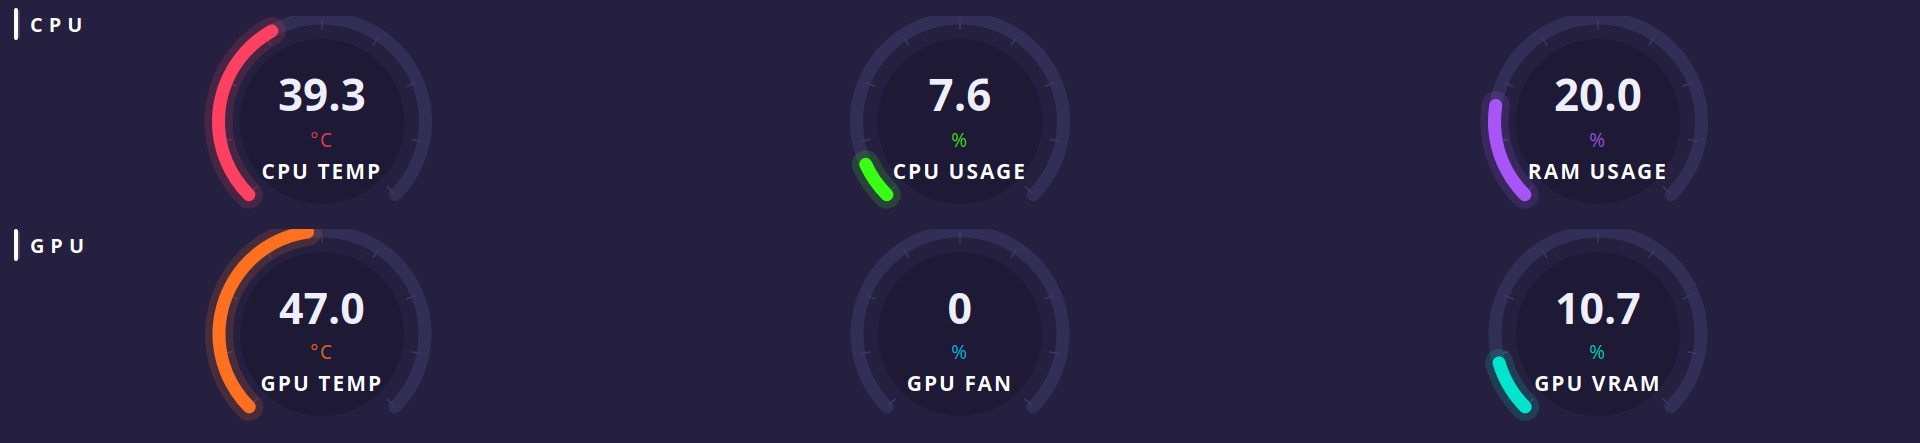
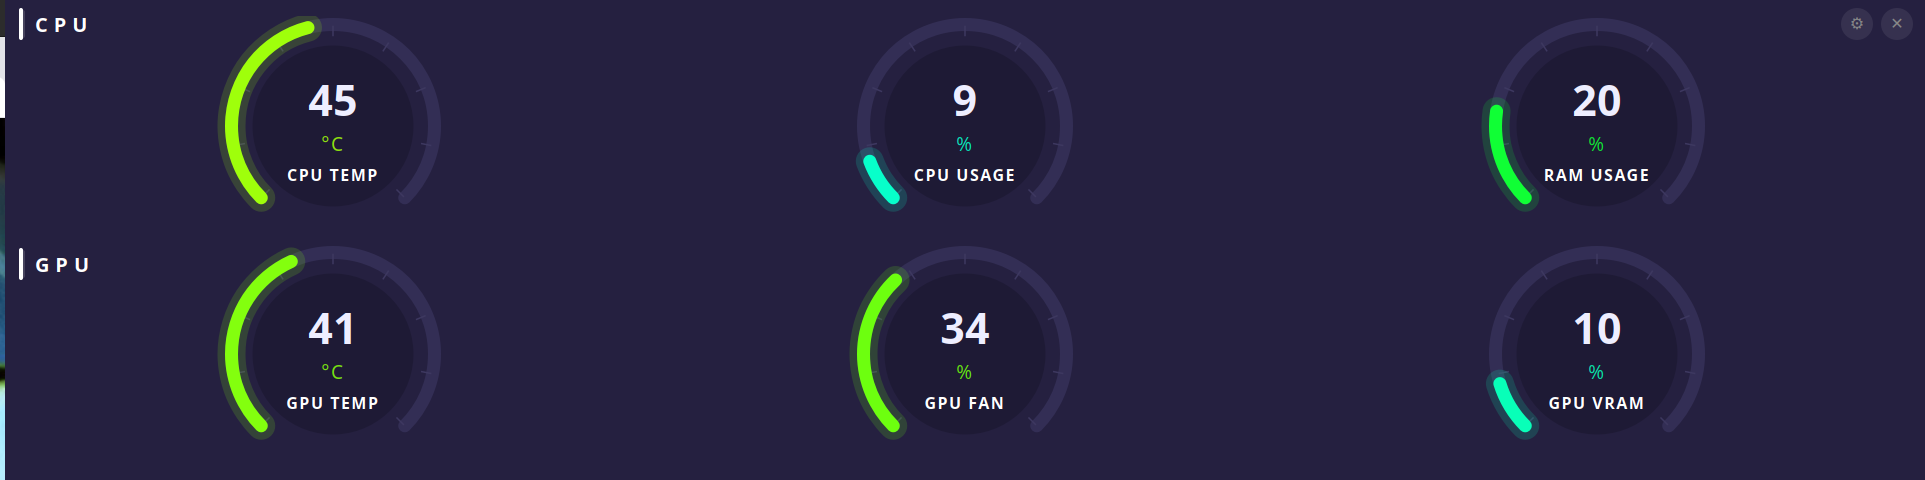
Add dynamic heat-color gradients on gauges + fix fullscreen stability on dedicated monitoring screens + harden config validation and security

diff --git a/sysgauge/gauge.py b/sysgauge/gauge.py
@@ -6,6 +6,29 @@ from sysgauge.config import Config
 
 ANIM_FPS = 60
 
+_DEFAULT_GRADIENT = [
+    (0.00, QColor('#00aaff')),
+    (0.25, QColor('#39ff14')),
+    (0.65, QColor('#ffd000')),
+    (0.85, QColor('#ff8800')),
+    (1.00, QColor('#ff2020')),
+]
+
+
+def _lerp_hsv(c1: QColor, c2: QColor, t: float) -> QColor:
+    h1, s1, v1, a1 = c1.hsvHueF(), c1.hsvSaturationF(), c1.valueF(), c1.alphaF()
+    h2, s2, v2, a2 = c2.hsvHueF(), c2.hsvSaturationF(), c2.valueF(), c2.alphaF()
+    if h1 < 0: h1 = h2
+    if h2 < 0: h2 = h1
+    if h1 < 0: h1 = h2 = 0.0
+    dh = h2 - h1
+    if dh > 0.5:  dh -= 1.0
+    if dh < -0.5: dh += 1.0
+    h = (h1 + dh * t) % 1.0
+    result = QColor()
+    result.setHsvF(h, s1 + (s2 - s1) * t, v1 + (v2 - v1) * t, a1 + (a2 - a1) * t)
+    return result
+
 
 class Gauge(QWidget):
     _START  = 225
@@ -23,13 +46,14 @@ class Gauge(QWidget):
         self.unit     = unit
         self.lo       = lo
         self.hi       = hi
-        self._base    = QColor(color)
+        self._base    = QColor(color)  # kept for API compat; dynamic color overrides
         self._config  = config
         self.warn     = warn
         self.crit     = crit
         self.decimals = decimals
         self._target  = float(lo)
         self._cur     = float(lo)
+        self._gradient_stops = self._build_stops()
 
         self.setSizePolicy(QSizePolicy.Policy.Expanding, QSizePolicy.Policy.Expanding)
         self.setMinimumSize(140, 140)
@@ -37,6 +61,36 @@ class Gauge(QWidget):
         anim = QTimer(self)
         anim.timeout.connect(self._step)
         anim.start(1000 // ANIM_FPS)
+
+    def _build_stops(self) -> list[tuple[float, QColor]]:
+        span = (self.hi - self.lo) or 1.0
+        if self.warn is not None and self.crit is not None:
+            warn_r = max(0.0, min(1.0, (self.warn - self.lo) / span))
+            crit_r = max(0.0, min(1.0, (self.crit - self.lo) / span))
+            mid_r  = (warn_r + crit_r) / 2
+            return [
+                (0.00,   QColor('#00aaff')),
+                (0.25,   QColor('#39ff14')),
+                (warn_r, QColor('#ffd000')),
+                (mid_r,  QColor('#ff8800')),
+                (crit_r, QColor('#ff2020')),
+            ]
+        return list(_DEFAULT_GRADIENT)
+
+    def _color_for(self, ratio: float) -> QColor:
+        ratio = max(0.0, min(1.0, ratio))
+        stops = self._gradient_stops
+        if ratio <= stops[0][0]:
+            return stops[0][1]
+        if ratio >= stops[-1][0]:
+            return stops[-1][1]
+        for i in range(len(stops) - 1):
+            p0, c0 = stops[i]
+            p1, c1 = stops[i + 1]
+            if p0 <= ratio <= p1:
+                t = (ratio - p0) / (p1 - p0) if p1 > p0 else 0.0
+                return _lerp_hsv(c0, c1, t)
+        return stops[-1][1]
 
     def set_value(self, v: float):
         self._target = max(self.lo, min(self.hi, float(v)))
@@ -47,20 +101,12 @@ class Gauge(QWidget):
             self._cur += d * 0.14
             self.update()
 
-    def _color(self) -> QColor:
-        if self.crit is not None and self._cur >= self.crit:
-            return QColor('#ff2020')
-        if self.warn is not None and self._cur >= self.warn:
-            return QColor('#ff8800')
-        return self._base
-
     def paintEvent(self, _event):
         cfg = self._config
         p = QPainter(self)
         p.setRenderHint(QPainter.RenderHint.Antialiasing)
 
         w, h  = self.width(), self.height()
-
         pad   = self._ARC / 2 + 2
         diam  = min(w, h) - pad * 2
         if diam <= 0:
@@ -69,8 +115,9 @@ class Gauge(QWidget):
         cx    = w / 2
         cy    = h / 2
         rect  = QRectF(cx - r, cy - r, diam, diam)
-        ratio = max(0.0, min(1.0, (self._cur - self.lo) / (self.hi - self.lo)))
-        col   = self._color()
+        span  = (self.hi - self.lo) or 1.0
+        ratio = max(0.0, min(1.0, (self._cur - self.lo) / span))
+        col   = self._color_for(ratio)
 
         p.setPen(QPen(QColor(cfg.get('track_color')), self._TRACK,
                       Qt.PenStyle.SolidLine, Qt.PenCapStyle.RoundCap))

diff --git a/sysgauge/app.py b/sysgauge/app.py
@@ -3,9 +3,9 @@ import sys
 from pathlib import Path
 
 from PyQt6.QtWidgets import (QApplication, QWidget, QGridLayout, QHBoxLayout, QVBoxLayout,
-                             QSizePolicy, QToolButton, QDialog, QLabel, QPushButton)
+                             QSizePolicy, QToolButton, QDialog, QLabel, QPushButton, QLayout)
 from PyQt6.QtCore import (Qt, QTimer, QThread, QPropertyAnimation, QEasingCurve,
-                           QMetaObject, Q_ARG, QRectF)
+                           QMetaObject, Q_ARG, QRectF, QRect)
 from PyQt6.QtGui import QPainter, QColor, QPen, QFont, QIcon, QShortcut, QKeySequence, QGuiApplication
 
 from sysgauge.config import Config
@@ -118,6 +118,9 @@ class SysGauge(QWidget):
         outer = QHBoxLayout(self)
         outer.setContentsMargins(0, 0, 0, 0)
         outer.setSpacing(0)
+        # Prevent layout from pushing its minimumSizeHint into WM_NORMAL_HINTS,
+        # which causes Mutter to drop fullscreen on short monitors (e.g. 480px tall).
+        outer.setSizeConstraint(QLayout.SizeConstraint.SetNoConstraint)
 
         self._gauge_area = GaugeArea(config)
         gauge_area = self._gauge_area
@@ -152,11 +155,12 @@ class SysGauge(QWidget):
         self._worker.reading.connect(self._on_reading)
         self._thread.start()
 
-        self._sidebar = SettingsSidebar(config, self._worker)
-        self._sidebar.setMinimumWidth(0)
-        self._sidebar.setMaximumWidth(0)
-        self._sidebar.setSizePolicy(QSizePolicy.Policy.Fixed, QSizePolicy.Policy.Expanding)
-        outer.addWidget(self._sidebar)
+        # Sidebar is an overlay — NOT in the layout — so its minimumSizeHint
+        # never propagates into WM_NORMAL_HINTS and can't trigger Mutter to
+        # drop fullscreen state during the slide animation.
+        self._sidebar = SettingsSidebar(config, self._worker, self)
+        self._sidebar.setGeometry(self.width(), 0, 0, self.height())
+        self._sidebar.hide()
 
         btn_style = (
             'QToolButton { background:rgba(255,255,255,20); border:none; '
@@ -178,12 +182,18 @@ class SysGauge(QWidget):
         self._close_btn.raise_()
 
         QShortcut(QKeySequence('Ctrl+,'), self, self.toggle_settings)
-        QShortcut(QKeySequence('Escape'), self, self._close_settings)
+        esc = QShortcut(QKeySequence('Escape'), self)
+        esc.setContext(Qt.ShortcutContext.WindowShortcut)
+        esc.activated.connect(self._close_settings)
 
-        self._anim = QPropertyAnimation(self._sidebar, b'maximumWidth')
+        # Animate geometry directly — avoids layout invalidation that
+        # would re-propagate minimumSizeHint to WM_NORMAL_HINTS.
+        self._anim = QPropertyAnimation(self._sidebar, b'geometry')
         self._anim.setDuration(200)
         self._anim.setEasingCurve(QEasingCurve.Type.OutCubic)
+        self._anim.finished.connect(self._on_anim_finished)
         self._sidebar_open = False
+        self.setMinimumSize(0, 0)
 
         config.changed.connect(self._on_config_changed)
 
@@ -193,19 +203,33 @@ class SysGauge(QWidget):
         else:
             self._open_settings()
 
+    def _restack_overlay(self):
+        self._sidebar.raise_()
+        self._gear_btn.raise_()
+        self._close_btn.raise_()
+
     def _open_settings(self):
         self._sidebar_open = True
+        self._sidebar.show()
+        self._restack_overlay()
         self._anim.stop()
-        self._anim.setStartValue(self._sidebar.maximumWidth())
-        self._anim.setEndValue(SIDEBAR_W)
+        self._anim.setStartValue(self._sidebar.geometry())
+        self._anim.setEndValue(QRect(self.width() - SIDEBAR_W, 0, SIDEBAR_W, self.height()))
         self._anim.start()
 
     def _close_settings(self):
+        if not self._sidebar_open:
+            return
         self._sidebar_open = False
         self._anim.stop()
-        self._anim.setStartValue(self._sidebar.maximumWidth())
-        self._anim.setEndValue(0)
+        self._anim.setStartValue(self._sidebar.geometry())
+        self._anim.setEndValue(QRect(self.width(), 0, 0, self.height()))
         self._anim.start()
+
+    def _on_anim_finished(self):
+        if not self._sidebar_open:
+            self._sidebar.hide()
+            self._sidebar.setGeometry(self.width(), 0, 0, self.height())
 
     def _confirm_quit(self):
         dlg = QuitDialog(self)
@@ -218,6 +242,10 @@ class SysGauge(QWidget):
         super().resizeEvent(event)
         self._gear_btn.move(self.width() - 84, 8)
         self._close_btn.move(self.width() - 44, 8)
+        if self._sidebar_open:
+            self._sidebar.setGeometry(self.width() - SIDEBAR_W, 0, SIDEBAR_W, self.height())
+        else:
+            self._sidebar.setGeometry(self.width(), 0, 0, self.height())
 
     def _on_reading(self, cpu_t, gpu_t, gpu_f, cpu_u, mem, gpu_vram):
         self.g_cpu_t.set_value(cpu_t)
@@ -259,6 +287,7 @@ class SysGauge(QWidget):
         # Clear min-size first so showNormal() doesn't snap back to a large size.
         self.setMinimumSize(0, 0)
         self.showNormal()
+        self.setMinimumSize(0, 0)
 
         # Migrate to the target QScreen before sizing — Qt6 cross-screen path.
         handle = self.windowHandle()
@@ -267,6 +296,7 @@ class SysGauge(QWidget):
 
         self.setGeometry(geo)
         QTimer.singleShot(50, self.showFullScreen)
+        QTimer.singleShot(100, self._restack_overlay)
 
     def closeEvent(self, event):
         self._config.save_now()
@@ -294,7 +324,12 @@ class SysGauge(QWidget):
 
 def main():
     import fcntl
-    lock_path = Path(os.environ.get('XDG_RUNTIME_DIR', '/tmp')) / 'sysgauge.lock'
+    _runtime = os.environ.get('XDG_RUNTIME_DIR', '')
+    if _runtime:
+        lock_path = Path(_runtime) / 'sysgauge.lock'
+    else:
+        lock_path = Path.home() / '.cache' / 'sysgauge' / 'sysgauge.lock'
+        lock_path.parent.mkdir(parents=True, exist_ok=True)
     lock_file = open(lock_path, 'w')
     try:
         fcntl.flock(lock_file, fcntl.LOCK_EX | fcntl.LOCK_NB)

diff --git a/sysgauge/config.py b/sysgauge/config.py
@@ -1,8 +1,26 @@
 import os
+import re
 import sys
 import yaml
 from pathlib import Path
 from PyQt6.QtCore import QObject, QTimer, pyqtSignal
+
+_HEX = re.compile(r'^#[0-9a-fA-F]{6}$')
+
+def _is_hex(v): return isinstance(v, str) and bool(_HEX.match(v))
+def _is_screen(v): return isinstance(v, int) and 0 <= v < 32
+
+_VALIDATORS = {
+    'screen_index':         _is_screen,
+    'default_screen_index': lambda v: v is None or _is_screen(v),
+    'poll_ms':              lambda v: isinstance(v, int) and 100 <= v <= 60000,
+    'smooth_n':             lambda v: isinstance(v, int) and 1 <= v <= 100,
+    'panel_radius':         lambda v: isinstance(v, int) and 0 <= v <= 100,
+    'bg_color':             _is_hex,
+    'inner_color':          _is_hex,
+    'track_color':          _is_hex,
+    'tick_color':           _is_hex,
+}
 
 DEFAULTS = {
     'screen_index':         0,
@@ -59,16 +77,26 @@ class Config(QObject):
         try:
             with open(self._path) as f:
                 loaded = yaml.safe_load(f) or {}
-            self._data.update({k: v for k, v in loaded.items() if k in DEFAULTS})
+            for k, v in loaded.items():
+                if k not in DEFAULTS:
+                    continue
+                validator = _VALIDATORS.get(k)
+                if validator and not validator(v):
+                    print(f'[SysGauge] Config: invalid value for {k!r}: {str(v)[:40]!r} — using default',
+                          file=sys.stderr)
+                    continue
+                self._data[k] = v
         except FileNotFoundError:
             print(f'[SysGauge] No config at {self._path} — using defaults', file=sys.stderr)
-        except yaml.YAMLError as e:
-            print(f'[SysGauge] Config parse error: {e} — using defaults', file=sys.stderr)
+        except yaml.YAMLError:
+            print(f'[SysGauge] Config parse error — using defaults', file=sys.stderr)
 
     def _write(self):
         try:
+            self._path.parent.mkdir(parents=True, exist_ok=True)
             tmp = self._path.with_suffix('.yaml.tmp')
             tmp.write_text(yaml.safe_dump(self._data, default_flow_style=False))
+            os.chmod(tmp, 0o600)
             tmp.replace(self._path)
-        except Exception as e:
+        except (OSError, yaml.YAMLError) as e:
             print(f'[SysGauge] Config save error: {e}', file=sys.stderr)

diff --git a/sysgauge/settings.py b/sysgauge/settings.py
@@ -37,6 +37,8 @@ class SettingsSidebar(QWidget):
         self._worker = worker
         self.setMinimumWidth(0)
         self.setSizePolicy(QSizePolicy.Policy.Fixed, QSizePolicy.Policy.Expanding)
+        self.setAttribute(Qt.WidgetAttribute.WA_StyledBackground, True)
+        self.setAutoFillBackground(True)
         self._build_ui()
 
     def _section(self, form: QFormLayout, text: str):
@@ -53,6 +55,14 @@ class SettingsSidebar(QWidget):
             QSpinBox, QComboBox {
                 background: #252040; border: 1px solid #443e70;
                 border-radius: 4px; padding: 4px 8px; color: #eee; }
+            QComboBox::drop-down { border: none; width: 20px; }
+            QComboBox::down-arrow { width: 10px; height: 10px; }
+            QComboBox QAbstractItemView {
+                background: #252040; color: #eee;
+                border: 1px solid #443e70;
+                selection-background-color: #3d3870;
+                selection-color: #fff;
+                outline: none; }
             QSpinBox::up-button, QSpinBox::down-button { width: 16px; }
             QSlider::groove:horizontal {
                 background: #332e55; height: 4px; border-radius: 2px; }
@@ -151,8 +161,8 @@ class SettingsSidebar(QWidget):
         self._screen_combo.clear()
         for i, s in enumerate(self._screens):
             g = s.availableGeometry()
-            star = '★  ' if i == default_idx else '      '
-            self._screen_combo.addItem(f'{star}Monitor {i + 1}  ({g.width()}×{g.height()})')
+            star = ' ★' if i == default_idx else ''
+            self._screen_combo.addItem(f'Monitor {i + 1}  {g.width()}×{g.height()}{star}')
         self._screen_combo.setCurrentIndex(max(current, 0))
         self._screen_combo.blockSignals(False)
 

diff --git a/README.md b/README.md
@@ -1,8 +1,15 @@
 # iBaSaW SysGauge
 
-A dedicated hardware monitor panel for Linux — like AIDA64's sensor panel, but native to your desktop.  
+The Linux software for dedicated hardware monitoring screens — like AIDA64's sensor panel, but native to your desktop.  
 6 circular arc gauges (CPU temp, usage, RAM · GPU temp, fan, VRAM) built with PyQt6 and pynvml.  
-Smooth 60fps animation, rolling average stabilisation, transparent or solid background. Auto-starts on login.  
+Smooth 60fps animation, rolling average stabilisation, dynamic heat colors. Auto-starts on login.  
+**Built for dedicated monitoring screens** — works out of the box on stretched panels (1920×480), small IPS monitors, or any secondary display you use as a permanent hardware panel.  
+**Fully responsive** — gauges scale to any resolution and orientation: ultrawide, portrait, rotated, compact.  
+**One-command install** — a single `bash install.sh` sets up everything automatically.
+
+### Dedicated monitoring screen setup
+
+Plug in a secondary screen (a stretched panel, a small IPS monitor, anything), select it in the Settings sidebar under **Monitor**, and click **Set as default**. SysGauge will always open on that screen at login — no configuration files to edit.  
 
 ![SysGauge preview](screenshot.png)
 
@@ -128,7 +135,7 @@ tick_color:  "#3d3860"   # tick marks
 
 ## Autostart caveat
 
-The autostart entry uses `DISPLAY=:1`. If your display number differs, check with `echo $DISPLAY` and edit `~/.config/autostart/sysgauge.desktop` accordingly.
+The autostart entry inherits `$DISPLAY` from the login session, falling back to `:0`. If the app doesn't start on login, check your display number with `echo $DISPLAY` and edit `~/.config/autostart/sysgauge.desktop` accordingly.
 
 ## Uninstall
 